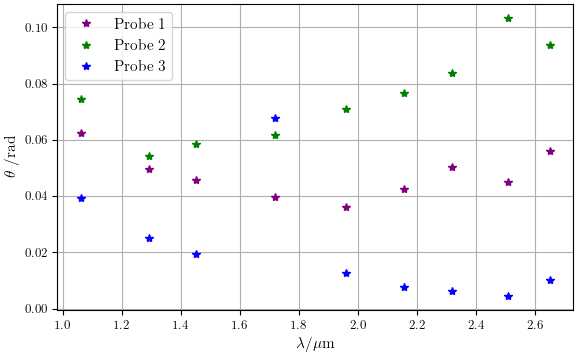
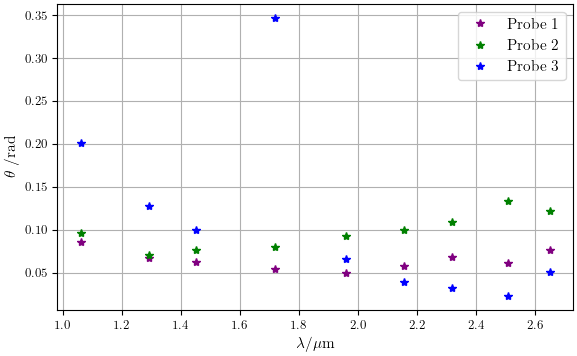
mist

diff --git a/v46/content/auswertung.tex b/v46/content/auswertung.tex
@@ -2,3 +2,222 @@
 \label{sec:Auswertung}
 
 
+
+\subsection{Magnetfeldstärke}
+Im ersten Schritt wird die Stärke des Magnetfelds in Abhängigkeit von der Sondenposition 
+gemessen. Das Magnetfeld wird von einem Elektromagneten erzeugt. Die gemessenen Werte sind in \ref{tab:Tabelle 1}
+Tabelle angegeben, in Abbildung \ref{fig: Abbildung 1} ist die magnetische Flussdichte gegen die Position der Sonde geplottet.
+
+\begin{table}[h]
+\centering
+\begin{tabular}{|c|c|}
+\hline   
+\(z\)/mm & \(B\)/ \(mT\) \\
+\hline
+40 & 0.6 \\ 
+50 & 1.1 \\ 
+60 & 0.8 \\ 
+70 & 0.3 \\ 
+80 & 0.3 \\ 
+90 & 0.3 \\
+100 & 0.6 \\ 
+105 & 0.9 \\
+110 & 1.7 \\ 
+115 & 5.0 \\
+120 & 17.3 \\ 
+125 & 56.9 \\ 
+130 & 214 \\
+135 & 394 \\
+140 & 421 \\ 
+145 & 414 \\
+150 & 354 \\ 
+55 & 134 \\ 
+160 & 26 \\
+165 & 6 \\ 
+170 & 1.6 \\
+\hline
+\end{tabular}
+\caption{Messwerte des Magnetfeldes $B$ bei verschiedenen Positionen $z$} 
+\label{tab:Tabelle 1}
+\end{table}
+
+\begin{figure}
+    \centering
+    \includegraphics[width=\textwidth]{Bilder/Magnetfeld.png}
+    \caption{Die Kraftflussdichte \(B(z)\)}
+    \label{fig: Abbildung 1}
+\end{figure}
+Der maximal von uns gemessene Wert beträgt 421 \(mT\).
+
+\subsection{Drehwinkel der Faraday-Rotation}
+Für jede Probe wird die Messreihe zweimal durchgeführt, den Drehwinkel berechnet man nach :
+\begin{equation}
+    \theta_{nom}=\frac{\theta_1-\theta_2}{2}
+\end{equation}    
+
+Die folgenden drei Tabellen representieren die gemessenen Winkel, die normierten Winkel, sowie die Wellenlänge. Die Dotierung und die Dicke der Probe werden jeweils angegeben. 
+
+
+\begin{table}[h]
+\centering
+\caption{Dotierung: \( N = 1.2\cdot10^{18} \, \text{cm}^{-3} \)
+Dicke der Probe: 1.36 mm}
+\begin{tabular}{|c|c|c|c|c|}
+\hline    
+$\theta_1$ / Grad & $\theta_2$ / Grad & $\theta_{nom}$ /Grad & $\theta_{nom}$ / Rad & $\lambda$ / $\mu$m \\
+72.91 & 82.66 & 9.75 & 0.170 & 1.06 \\
+73.11 & 80.83 & 7.72 & 0.134 & 1.29 \\
+73.71 & 80.83 & 7.12 & 0.124 & 1.45 \\ 
+72.58 & 78.78 & 6.2 & 0.108 & 1.72 \\ 
+68.2 & 73.85 & 5.65 & 0.098 & 1.96 \\
+64.28 & 70.93 & 6.65 & 0.116 & 2.156 \\
+40.33 & 48.16 & 7.83 & 0.136 &2.32 \\
+30.0 & 37.0 & 2.51 & 7 & 0.122 \\
+59.3 & 68.01 &8.71 & 0.152 & 2.65 \\
+\hline
+\end{tabular}
+\label{tab:winkel_wellenlaenge1} 
+\end{table}
+
+
+
+\begin{table}[h] 
+\centering 
+\caption{Dotierung: \( N = 2.8\cdot10^{18} \, \text{cm}^{-3} \)
+Dicke der Probe: 1.296 mm}
+\begin{tabular}{|c|c|c|c|c|} 
+\hline
+$\theta_1$ / Grad & $\theta_2$ / Grad & $\theta_{nom}$ / Grad & $\theta_{nom}$ / Rad & $\lambda$ / $\mu$m \\
+\hline 
+71.76 & 82.83 & 5.535 & 0.0966 & 1.06 \\
+72.71 & 80.75 & 4.02 & 0.0702 & 1.29 \\
+72.58 & 81.28 & 4.35 & 0.0759 & 1.45 \\
+70.33 & 79.51 & 4.59 & 0.0801 & 1.72 \\
+66.83 & 77.38 & 5.275 & 0.0920 & 1.96 \\
+62.0 & 73.38 & 5.69 & 0.0994 & 2.156 \\
+39.01 & 51.46 & 6.225 & 0.1086 & 2.34 \\ 
+26.56 & 41.9 & 7.67 & 0.1339 & 2.51 \\
+58.73 & 72.63 & 6.95 & 0.1213 & 2.65 \\  
+\hline 
+\end{tabular} 
+\label{tab:winkel_wellenlaenge2} 
+\end{table}
+
+Dicke der Probe: 1.296 mm, undotiert
+
+\begin{table}[h] 
+\centering 
+\caption{Dicke der Probe: 1.296 mm, undotiert}
+\begin{tabular}{|c|c|c|c|c|} 
+\hline
+$\theta_1$ / Grad & $\theta_2$ / Grad & $\theta_{nom}$ / Grad & $\theta_{nom}$ / Rad & $\lambda$ / $\mu$m \\ 
+\hline 
+66.28 & 89.33 & 11.525 & 0.2012 & 1.06 \\
+70.4 & 85.0 & 7.3 & 0.1274 & 1.29 \\
+73.25 & 84.7 & 5.725 & 0.0999 & 1.45 \\
+41.0 & 80.76 & 19.88 & 0.3468 & 1.72 \\
+68.83 & 76.3 & 3.735 & 0.0652 & 1.96 \\
+65.91 & 70.35 & 2.22 & 0.0387 & 2.156 \\
+42.71 & 46.38 & 1.835 & 0.0320 & 2.34 \\
+29.71 & 32.25 & 1.27 & 0.0222 & 2.51 \\
+59.33 & 65.18 & 2.925 & 0.0510 & 2.65 \\ 
+\hline 
+\end{tabular} 
+\label{tab:winkel_wellenlaenge3} 
+\end{table}
+\FloatBarrier
+
+Zur veranschaulichung der Messergebnisse werden die normierten Winkel in \ref{fig:2} gegen die Wellenlänge geplottet
+\begin{figure}
+    \centering
+    \includegraphics[width=\textwidth]{Bilder/Probe1-3.png}
+    \caption{Die normierten Drehwinkel der drei Proben}
+    \label{fig:2}
+\end{figure}
+ 
+Im nächsten Schritt wird die Differenz der Faraday-Rotation zwischen dotierter und undotierter Probe
+gebildet, um den Effekt der Leitungselektronen genau zu untersuchen. Die berechneten Drehwinkel sind in 
+Abbildung \ref{fig:differenzen}  gegen $\lambda^2$ geplottet.
+
+\begin{figure}
+    \centering
+    \includegraphics[width=\textwidth]{Bilder/differenzen.png}
+    \caption{Die Differenzen der Drehwinkel von den dotierten und der undotierten Probe}
+    \label{fig:differenzen}
+\end{figure}
+
+
+\subsection{Bestimmung der Effektiven Masse}
+Die Effektive Masse beschreibt, wie Elektronen auf das angelegte Magnetfeld reagieren, was die Drehung der
+polarisationsebene des durch das Material gehenden Lichts beeinflusst. Die Effektive Masse kann je nach Material 
+und seiner elektronischen Bandstruktur variieren. Sie wird durch die Differenzen der Drehwinkel $\theta_{nom}$ 
+der dotierten und der undotierten Probe berechnet. Dazu wird eine eine lineare Ausgleichsrechnung mit Python 
+durchgeführt die die Form:
+\begin{equation}
+g(x)=mx+b
+\label{eq:lineareform}
+\end{equation}
+hat.
+
+\begin{figure}
+    \centering
+    \includegraphics[width=\textwidth]{Bilder/lineareregression.png}
+    \caption{Die Differenzen der Drehwinkel von den dotierten und der undotierten Probe inklusive linearer regression}
+    \label{fig:regression}
+\end{figure}
+
+Die Effektive Masse berechnet sich nach:
+\begin{equation}
+    \theta_{frei}=\frac{(e_0)^3 \lambda^2 NB}{8 \pi\epsilon_0 c^3 (m^*)^2 n}
+\label{eq:masse}
+\end{equation}
+
+Aus der linearen Regression wird der Proportionalitätsfaktor $m$  bestimmt.
+Dabei entspricht g(x) der gemessenen Faraday-Rotation $\theta_{frei}$ und x
+entspricht dem quadrat der Wellenlänge $\lambda^2$.
+
+Setzt man die lineare Form der regression in \eqref{eq:masse} ein erhält man eine Gleichung der Form :
+\begin{equation}
+    \theta_{frei}=k\lambda^2
+\end{equation}
+Wobei $k$ der proportionalitätsfaktor ist und $m$ aus der linearen Regression entspricht:
+\begin{equation}
+    k=\frac{(e_0)^3NB}{8\pi^2\epsilon_0 c^3(m^*)^2 n}
+\end{equation}
+Löst man nach $m^*$ auf, setzt $k=m$ und zieht die Wurzel so ergibt sich für die Effektive Masse 
+folgende Beziehung:
+\begin{equation}
+    m^*=\sqrt{\frac{(e_0)^3NB}{8\pi^2 \epsilon_0 c^3 m n}}
+\end{equation}   
+Dabei ist $e_0=1.603\cdot10^{-19}C$ die Elementarladung, $\epsilon_0=8.85\cdot10^{-12}F/m$ die Dielektrizitätskonstante des Materials,
+$c=3\cdot10^8 m/s$ die Lichtgeschwindigkeit, $n$=3.5 der brechungsindex für GaAs und $B= 421 mT$ die maximale Kraftflussdichte.
+$N$ ist die Dotierungsschicht, die für die beiden Proben verschieden dick ist.
+$m$ wird mit Phyton und scipy bestimmt.
+
+\begin{itemize} 
+    \item Probe 1: \(N = 1.2 \cdot 10^{18} \, \text{cm}^{-3}\), Proportionalitätsfaktor \(m_1 = 0.01588407903456512\)
+Damit ergibt sich die effektive Masse:
+\begin{equation} m^*_1 = 3.8869115 \cdot 10^{-28} \, \text{kg}
+\end{equation}
+\item Probe 2: \(N = 2.8 \cdot 10^{18} \, \text{cm}^{-3}\), Proportionalitätsfaktor \(m_2 = 0.0017916113751336978\)
+Damit ergibt sich die effektive Masse:
+\begin{equation} m^*_2 = 1.767877 \cdot 10^{-27} \, \text{kg} 
+\end{equation} 
+\end{itemize}
+
+    
+    
+
+
+
+
+
+
+
+
+
+
+
+
+
+

diff --git a/v46/plot.py b/v46/plot.py
@@ -47,15 +47,15 @@ Probe3Winkel2 = np.genfromtxt('/Users/celinawieberg/Documents/Praktikum/FP/v46/P
 theta1_1 = Probe1Winkel1[:, 0] * 0.0174533 #Translate deg to rad
 theta2_1 = Probe1Winkel2[:, 0] * 0.0174533
 Wellenlaenge = Probe1Winkel1[:, 1]
-thetafrei1= np.abs(theta1_1-theta2_1)/(1.36 *2)
+thetafrei1= np.abs(theta1_1-theta2_1)/(2)
 
 theta1_2 = Probe2Winkel1[:, 0] * 0.0174533 #Translate deg to rad
 theta2_2 = Probe2Winkel2[:, 0] * 0.0174533
-thetafrei2= np.abs(theta1_2-theta2_2)/(1.296 *2)
+thetafrei2= np.abs(theta1_2-theta2_2)/(2)
 
 theta1_3 = Probe3Winkel1[:, 0] * 0.0174533 #Translate deg to rad
 theta2_3 = Probe3Winkel2[:, 0] * 0.0174533
-thetafrei3= np.abs(theta1_3-theta2_3)/(5.11 *2)
+thetafrei3= np.abs(theta1_3-theta2_3)/(2)
 
 
 
@@ -65,7 +65,7 @@ plt.plot(Wellenlaenge, thetafrei1, "*", color="purple", label="Probe 1")
 plt.plot(Wellenlaenge, thetafrei2, "*", color="green", label="Probe 2")
 plt.plot(Wellenlaenge, thetafrei3, "*", color="blue", label="Probe 3")
 plt.xlabel(r'$\lambda / \mu$m')
-plt.ylabel(r'$\theta$ /rad')
+plt.ylabel(r'$\theta$ /rad/m')
 plt.legend(loc="best")
 plt.grid(True)
 plt.show()
@@ -79,7 +79,7 @@ thetadiff2 = np.abs(thetafrei2-thetafrei3)
 plt.plot(Wellenlaenge, thetadiff1, "*", color ="purple", label = "Farady Rotation der ersten Probe")
 plt.plot(Wellenlaenge, thetadiff2, "*", color= "green", label = "Faraday Rotation der zweiten Probe")
 plt.xlabel(r'$\lambda / \mu$m')
-plt.ylabel(r'$\theta_{dot}-\theta_{undot}$') 
+plt.ylabel(r'$\theta_{dot}-\theta_{undot}$/m') 
 plt.legend(loc="best")
 plt.grid(True)
 plt.show()
@@ -88,20 +88,38 @@ plt.clf()
 
 
 from scipy.stats import linregress
-# Lineare Regression für thetadiff1
-slope1, intercept1, r_value1, p_value1, std_err1 = linregress(Wellenlaenge*Wellenlaenge, thetadiff1)
-line1 = slope1 * np.array(Wellenlaenge*Wellenlaenge) + intercept1
+# Square of the Wellenlaenge 
+Wellenlaenge_squared = Wellenlaenge ** 2 
+#Linear Regression for thetadiff1 
+slope1, intercept1, r_value1, p_value1, std_err1 = linregress(Wellenlaenge_squared, thetadiff1) 
 
-# Lineare Regression für thetadiff2
-slope2, intercept2, r_value2, p_value2, std_err2 = linregress(Wellenlaenge*Wellenlaenge, thetadiff2)
-line2 = slope2 * np.array(Wellenlaenge*Wellenlaenge) + intercept2
+# Linear Regression for thetadiff2 
+slope2, intercept2, r_value2, p_value2, std_err2 = linregress(Wellenlaenge_squared, thetadiff2) 
 
-plt.plot(Wellenlaenge*Wellenlaenge, thetadiff1, "*", color ="purple", label = "Farady Rotation der ersten Probe")
-plt.plot(Wellenlaenge*Wellenlaenge, thetadiff2, "*", color= "green", label = "Faraday Rotation der zweiten Probe")
-plt.plot(line1, "-", color="purple", label=f"Lineare Regression Probe 1 (R²={r_value1**2:.2f})") 
-plt.plot(line2, "-", color="green", label=f"Lineare Regression Probe 2 (R²={r_value2**2:.2f})")
+# Extend the regression lines over the entire range of data 
+x_fit = np.linspace(min(Wellenlaenge_squared), max(Wellenlaenge_squared), 200)
+line1 = slope1 * x_fit + intercept1 
+line2 = slope2 * x_fit + intercept2
+
+plt.plot(Wellenlaenge_squared, thetadiff1, "*", color ="purple", label = "Farady Rotation der ersten Probe")
+plt.plot(Wellenlaenge_squared, thetadiff2, "*", color= "green", label = "Faraday Rotation der zweiten Probe")
+plt.plot(x_fit,line1, "-", color="purple") 
+plt.plot(x_fit,line2, "-", color="green")
 plt.xlabel(r'$(\lambda)^2 / (\mu m^2)$')
-plt.ylabel(r'$\theta_{dot}-\theta_{undot}$') 
+plt.ylabel(r'$\theta_{dot}-\theta_{undot}$/m') 
 plt.legend(loc="best")
 plt.grid(True)
 plt.show()
+plt.clf()
+
+#Lineare Regression Probe 1:
+slope, intercept, r_value, p_value, std_err = linregress(Wellenlaenge_squared ,thetadiff1)
+# Steigung (Slope) ist m
+m_1 = slope
+print(f"Proportionalitätsfaktor m_1: {m_1}")
+
+#Lineare Regression Probe 1:
+slope, intercept, r_value, p_value, std_err = linregress(Wellenlaenge_squared ,thetadiff2)
+# Steigung (Slope) ist m
+m_2 = slope
+print(f"Proportionalitätsfaktor m_2: {m_2}")
